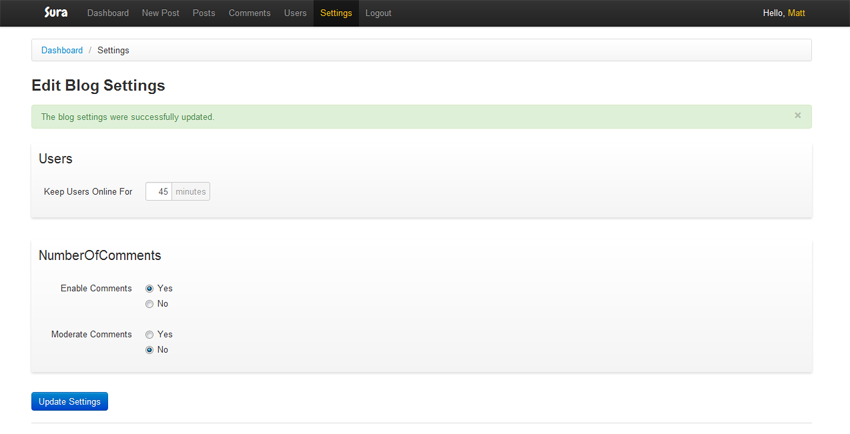
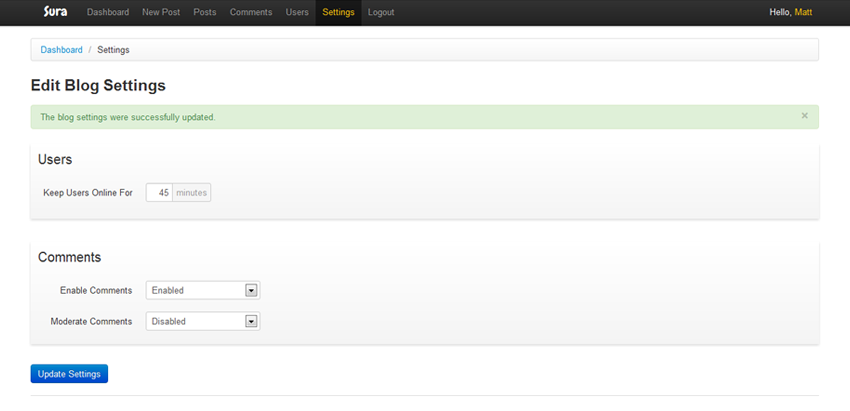
Settings now uses drop down rather than radio button. Reduced breadcrumb code. Fixed some renaming bugs.

diff --git a/src/Sura/Content/Stylesheets/Sura/sura-admin.css b/src/Sura/Content/Stylesheets/Sura/sura-admin.css
@@ -11,6 +11,12 @@ header .container a.brand:hover, header .container .nav-user a:hover
     color: #f89406;
 }
 
+.navbar .navbar-inner
+{
+    border-radius: 0;
+    -webkit-border-radius: 0;
+    -moz-border-radius: 0;
+}
 header .container .nav-user
 {
     color: #fff;

diff --git a/src/Sura/Areas/Admin/Controllers/SettingsController.cs b/src/Sura/Areas/Admin/Controllers/SettingsController.cs
@@ -5,6 +5,7 @@ using System.Web;
 using System.Web.Mvc;
 using AutoMapper;
 using Raven.Client;
+using Sura.Areas.Admin.Infrastructure;
 using Sura.Areas.Admin.Views.Settings.Models;
 using Sura.Controllers;
 using Sura.Models;
@@ -33,8 +34,8 @@ namespace Sura.Areas.Admin.Controllers
             var settings = new Settings
                                {
                                    KeepUsersOnlineFor = model.KeepUsersOnlineFor,
-                                   EnableComments = model.EnableComments,
-                                   CommentsRequireApproval = model.CommentsRequireApproval
+                                   EnableComments =  model.EnableComments == Status.Enabled,
+                                   CommentsRequireApproval = model.CommentsRequireApproval == Status.Enabled
                                };
 
             Settings.Save(settings);

diff --git a/src/Sura/Global.asax.cs b/src/Sura/Global.asax.cs
@@ -57,8 +57,9 @@ namespace Sura
                     .ForMember(dest => dest.Username, opt => opt.MapFrom(src => src.Id));
 
                 // settings
-                x.CreateMap<Settings, Sura.Areas.Admin.Views.Settings.Models.Edit>();
-
+                x.CreateMap<Settings, Sura.Areas.Admin.Views.Settings.Models.Edit>()
+                    .ForMember(dest => dest.EnableComments, opt => opt.MapFrom(src => src.EnableComments ? Status.Enabled : Status.Disabled))
+                    .ForMember(dest => dest.CommentsRequireApproval, opt => opt.MapFrom(src => src.CommentsRequireApproval ? Status.Enabled : Status.Disabled));
                 // users
                 x.CreateMap<User, Sura.Areas.Admin.Views.Users.Models.List>();
                 x.CreateMap<User, Sura.Areas.Admin.Views.Users.Models.Edit>();

diff --git a/src/Sura/Areas/Admin/Controllers/PostsController.cs b/src/Sura/Areas/Admin/Controllers/PostsController.cs
@@ -123,7 +123,7 @@ namespace Sura.Areas.Admin.Controllers
             post.Slug = Helper.ConvertToSlug(model.Title);
             post.Description = model.Description;
             post.Body = model.Body;
-            post.EnableComments = model.EnableComments == Status.Enabled ? true : false;
+            post.EnableComments = model.EnableComments == Status.Enabled;
             post.Tags = Helper.ConvertToTagList(model.Tags);
 
             if (model.Availability == Availability.Publish && (post.PublishedAt.HasValue == false || post.PublishedAt.Value > DateTimeOffset.UtcNow))

diff --git a/src/Sura/Areas/Admin/Views/Settings/Models/Edit.cs b/src/Sura/Areas/Admin/Views/Settings/Models/Edit.cs
@@ -1,4 +1,5 @@
 using System.ComponentModel.DataAnnotations;
+using Sura.Areas.Admin.Infrastructure;
 
 namespace Sura.Areas.Admin.Views.Settings.Models
 {
@@ -7,7 +8,7 @@ namespace Sura.Areas.Admin.Views.Settings.Models
         public string Id { get; protected internal set; }
 
         public int KeepUsersOnlineFor { get; set; }
-        public bool EnableComments { get; set; }
-        public bool CommentsRequireApproval { get; set; } 
+        public Status EnableComments { get; set; }
+        public Status CommentsRequireApproval { get; set; } 
     }
 }
